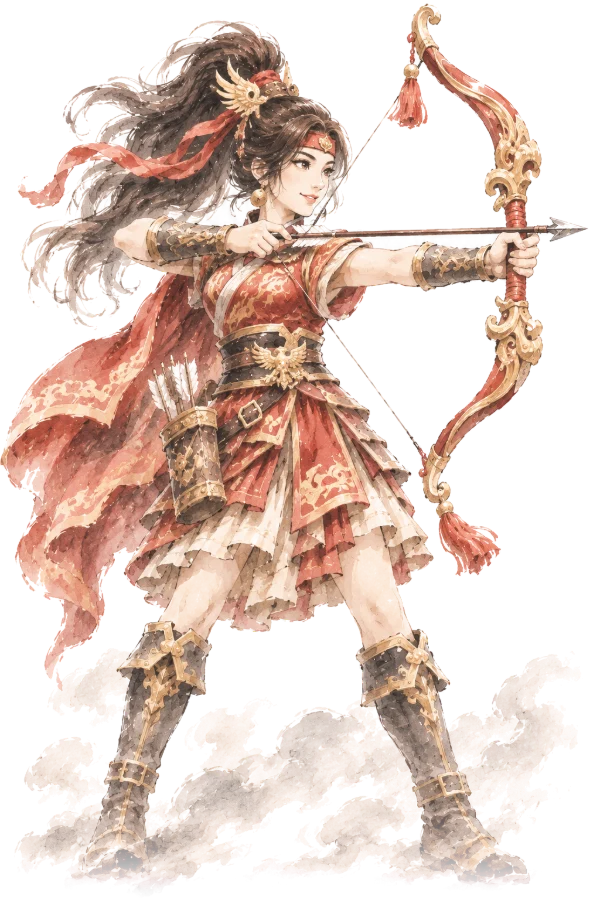
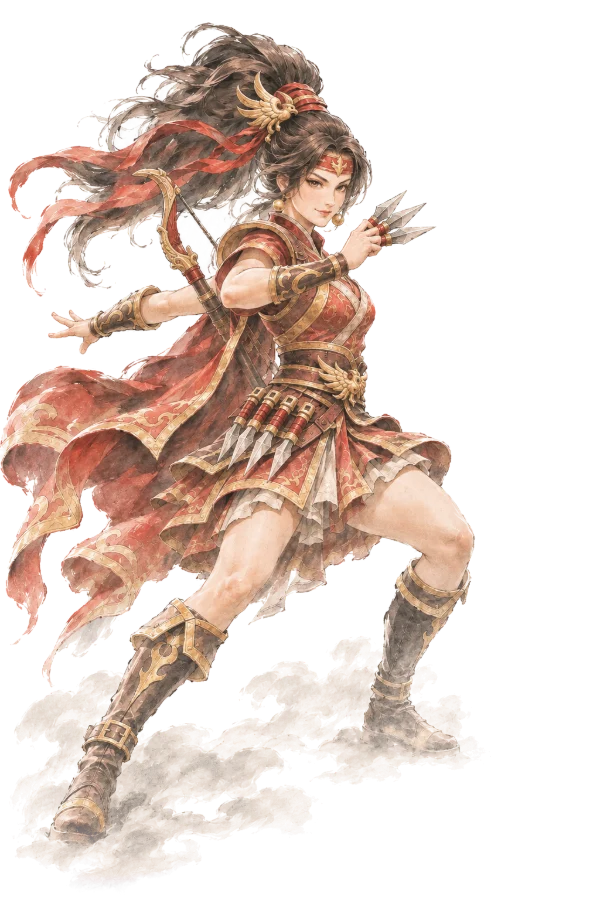
孙尚香选将卷轴立绘改为飞刀投掷版（照新主页立绘，水墨淡彩）

diff --git a/public/assets/ink-scroll/GENERATION_PROMPTS.md b/public/assets/ink-scroll/GENERATION_PROMPTS.md
@@ -17,3 +17,6 @@
 
 ## 2026-11-15 新增（张飞 / 马超 / 魏延 / 刘备）
 先以 epic-home/zhaoyun.webp 为画风参考、各自像素立绘为造型参考生成写实厚涂主页立绘（epic-home/originals/<id>.png，透明底），再参照 originals/guanyu.png 的水墨风格重绘为 originals/<id>.png（白底 1024×1536）。处理：node tools/epic-home-assets.mjs <id...>；node tools/build-ink-scroll-assets.mjs <id...>。
+
+## 2026-11-17 孙尚香重画（飞刀版）
+用户：「刚刚那个孙尚香立绘拿着弓箭不对 应该新的立绘拿着飞刀的」。以 epic-home/sunshangxiang.png（飞刀投掷、短弓背在背上、腰挂刀带、红金）为造型参考，originals/zhaoyun.png、guanyu.png 为画风参考，在 ChatGPT「生成孙尚香水墨立绘」聊天重绘为 originals/sunshangxiang.png（白底 1024×1536，人物略偏左、右侧留白给竖排题字）。处理：node tools/build-ink-scroll-assets.mjs sunshangxiang（只取 sunshangxiang.webp，frame / paper 不变）。
